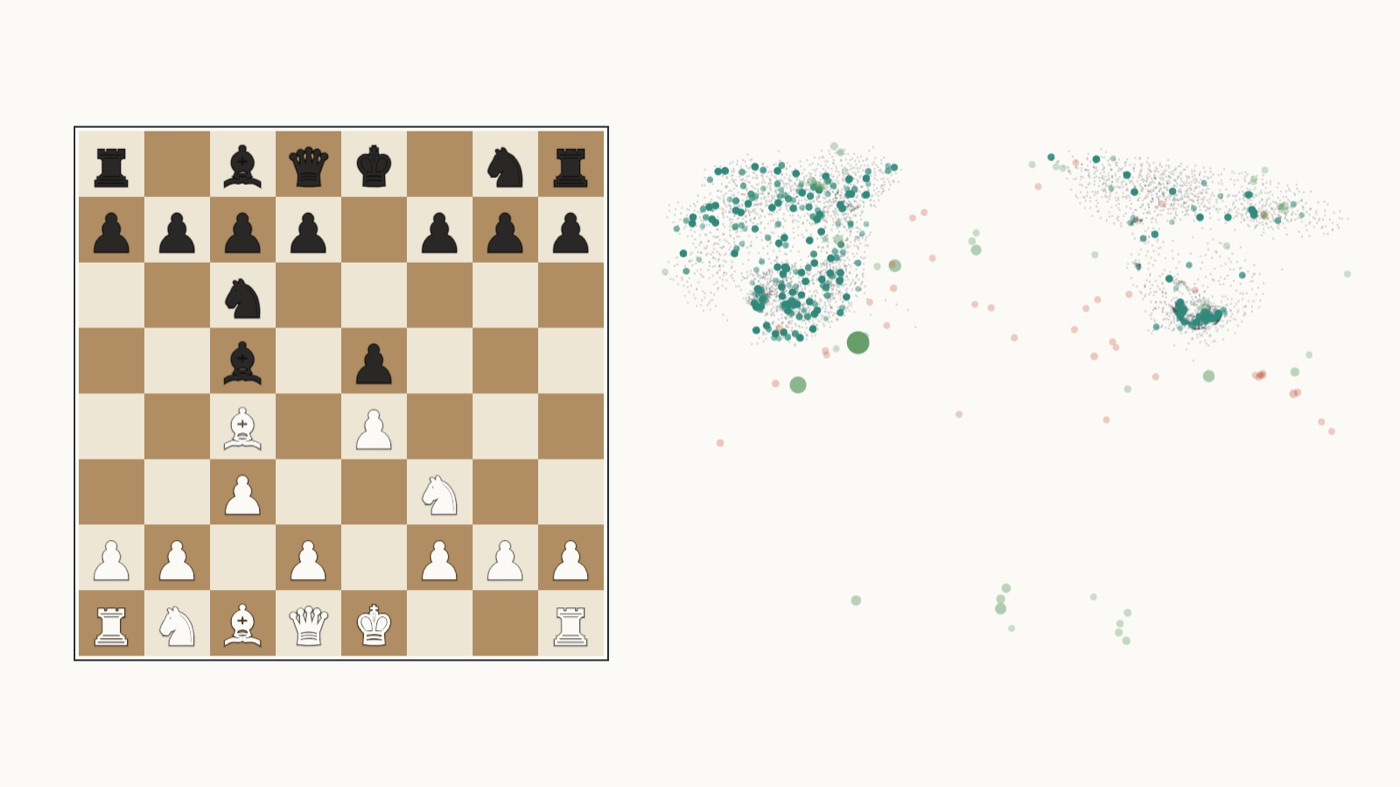
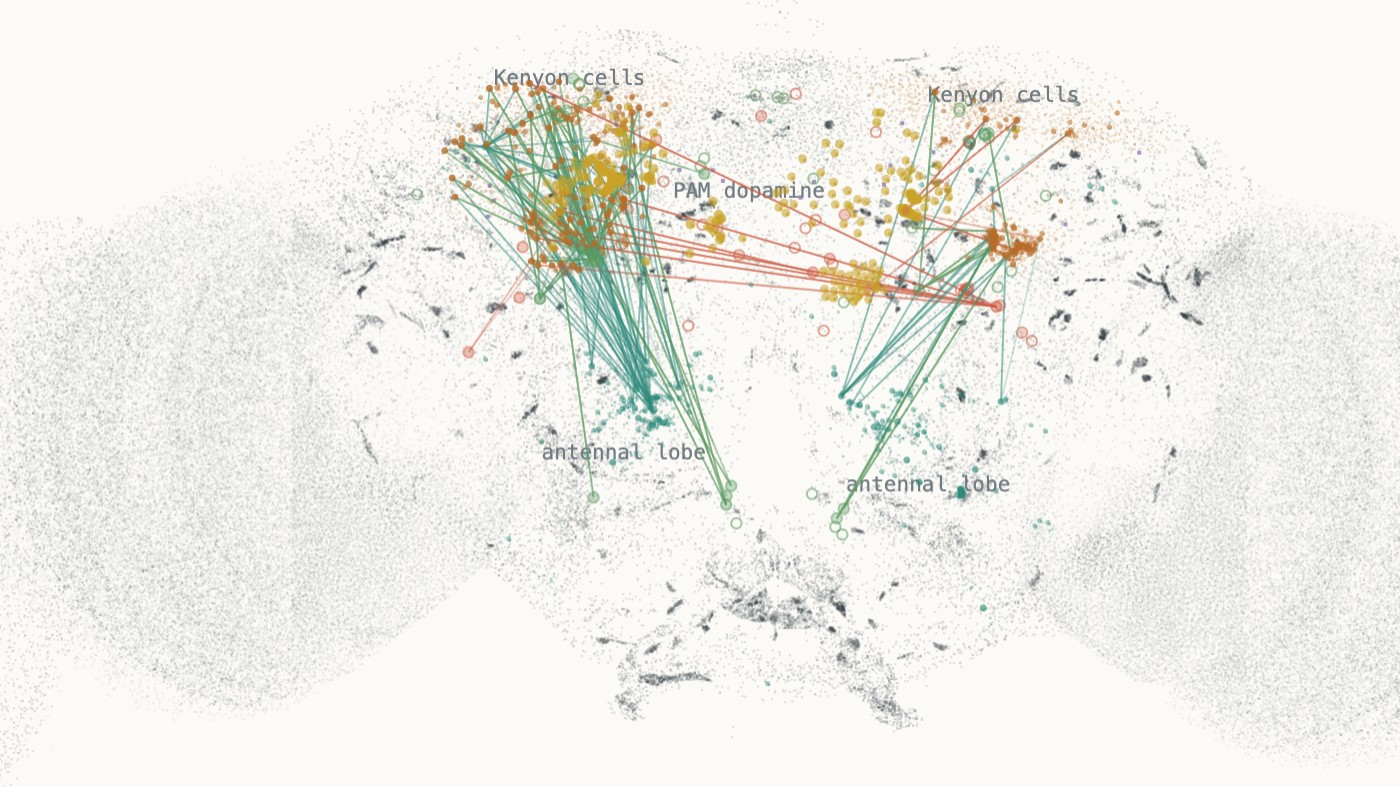
Fly Chess images: render them from the in-game brain view
The page header and the Projects card now show the same whole-brain
FlyWire diagram the game draws, captured mid-move from viewer.js.

diff --git a/flychess/index.html b/flychess/index.html
@@ -47,8 +47,8 @@
     <div class="lab-status" id="sub">Loading the connectome…</div>
   </div>
   <figure>
-    <img class="lab-art" src="/images/Media/flychess-mast.jpg" width="1400" height="1120" alt="The mushroom body from FlyWire. Teal Kenyon cells are the ones a real chess position activates; circles are the output neurons voting for or against the move.">
-    <figcaption>The mushroom body from FlyWire. Teal Kenyon cells are the ones a real chess position activates; circles are the output neurons voting for or against the move.</figcaption>
+    <img class="lab-art" src="/images/Media/flychess-mast.jpg" width="1400" height="1120" alt="The fly's brain from FlyWire, mid-move: signals run from the antennal lobes (teal) up to the Kenyon cells (orange) and out to the output neurons voting for or against the move, while PAM dopamine neurons (gold) fire.">
+    <figcaption>The fly's brain from FlyWire, mid-move: signals run from the antennal lobes (teal) up to the Kenyon cells (orange) and out to the output neurons voting for or against the move, while PAM dopamine neurons (gold) fire.</figcaption>
   </figure>
 </section>
 

diff --git a/projects.html b/projects.html
@@ -119,7 +119,7 @@
 				</div>
 				<div class="lab-shelf-grid">
 					<a class="lab-card" href="/flychess/">
-						<img class="lab-cover" src="images/Media/flychess-cover.jpg" width="1400" height="788" alt="A chess position next to the fly mushroom body neurons it activates" loading="lazy">
+						<img class="lab-cover" src="images/Media/flychess-cover.jpg" width="1400" height="788" alt="The fruit fly brain from FlyWire with the chess circuit lit up: signals running from the antennal lobes to the Kenyon cells and output neurons" loading="lazy">
 						<div class="lab-card-body">
 							<span class="eyebrow">Independent project &middot; September 2026</span>
 							<h4>Fly Chess</h4>
